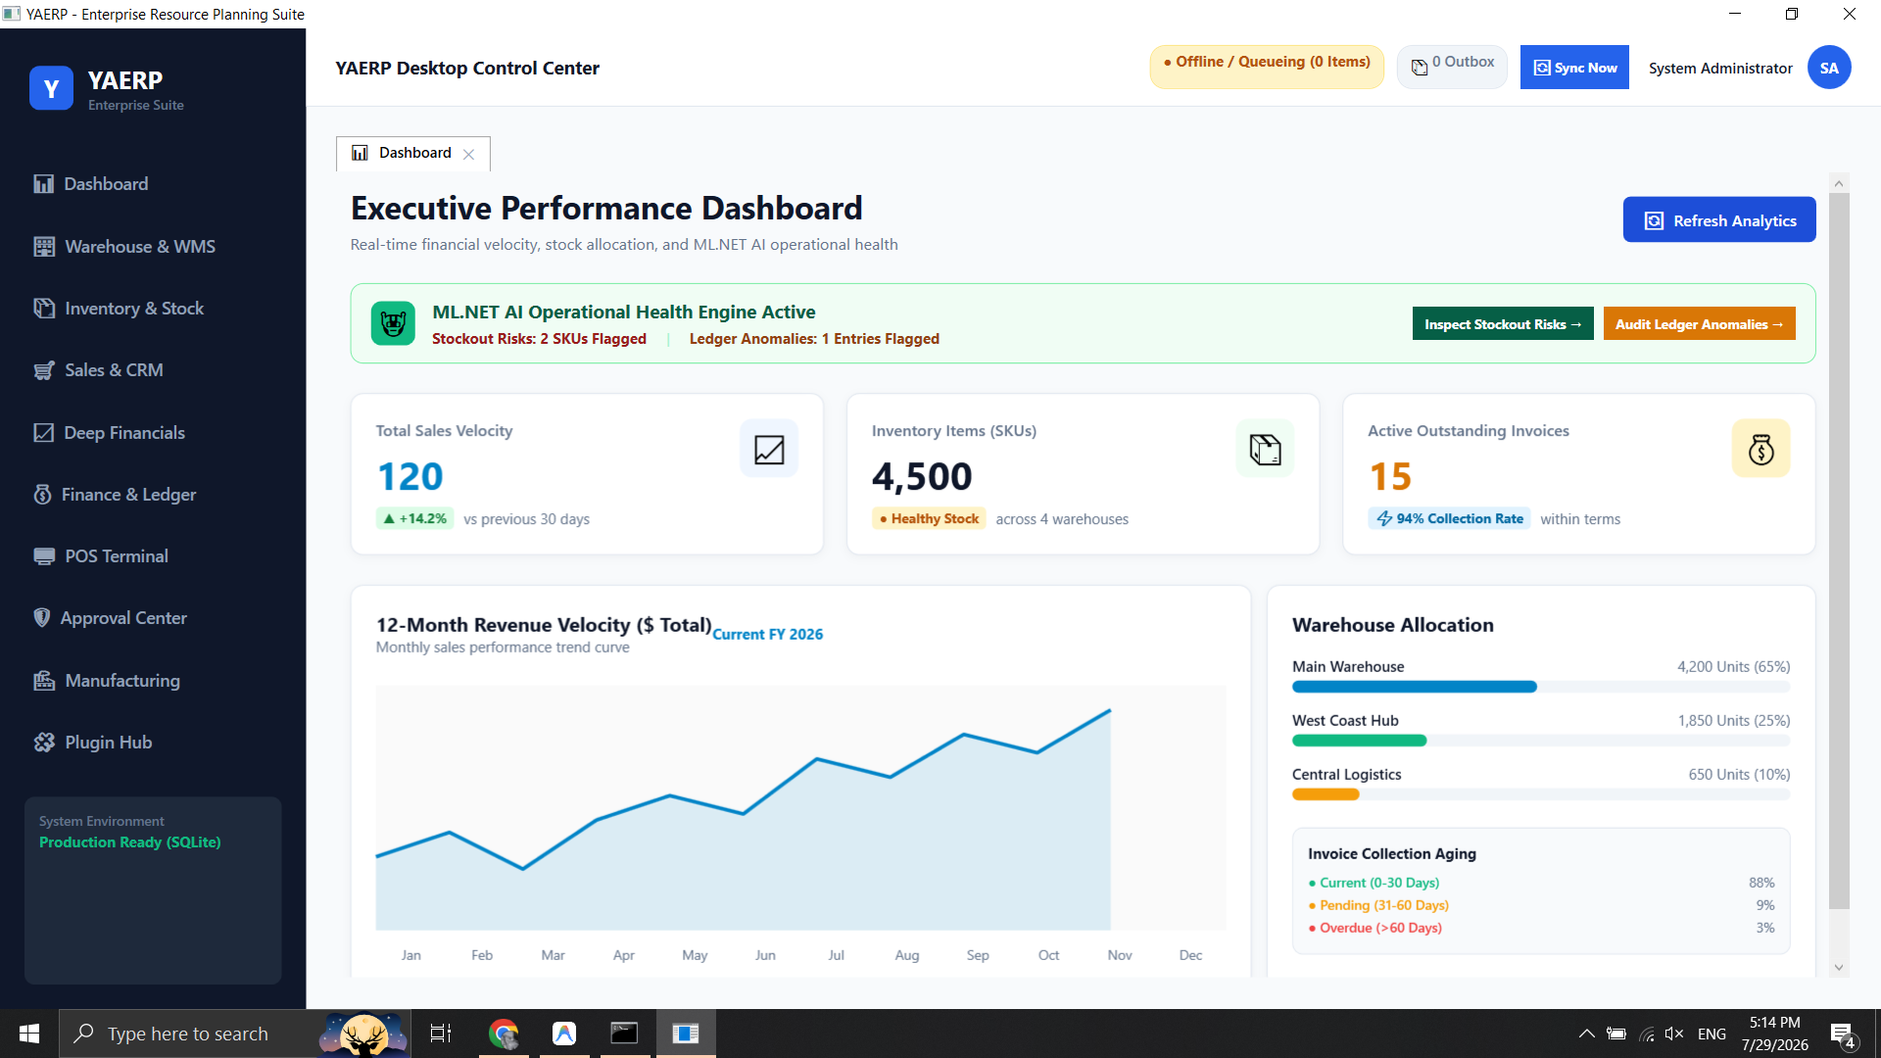
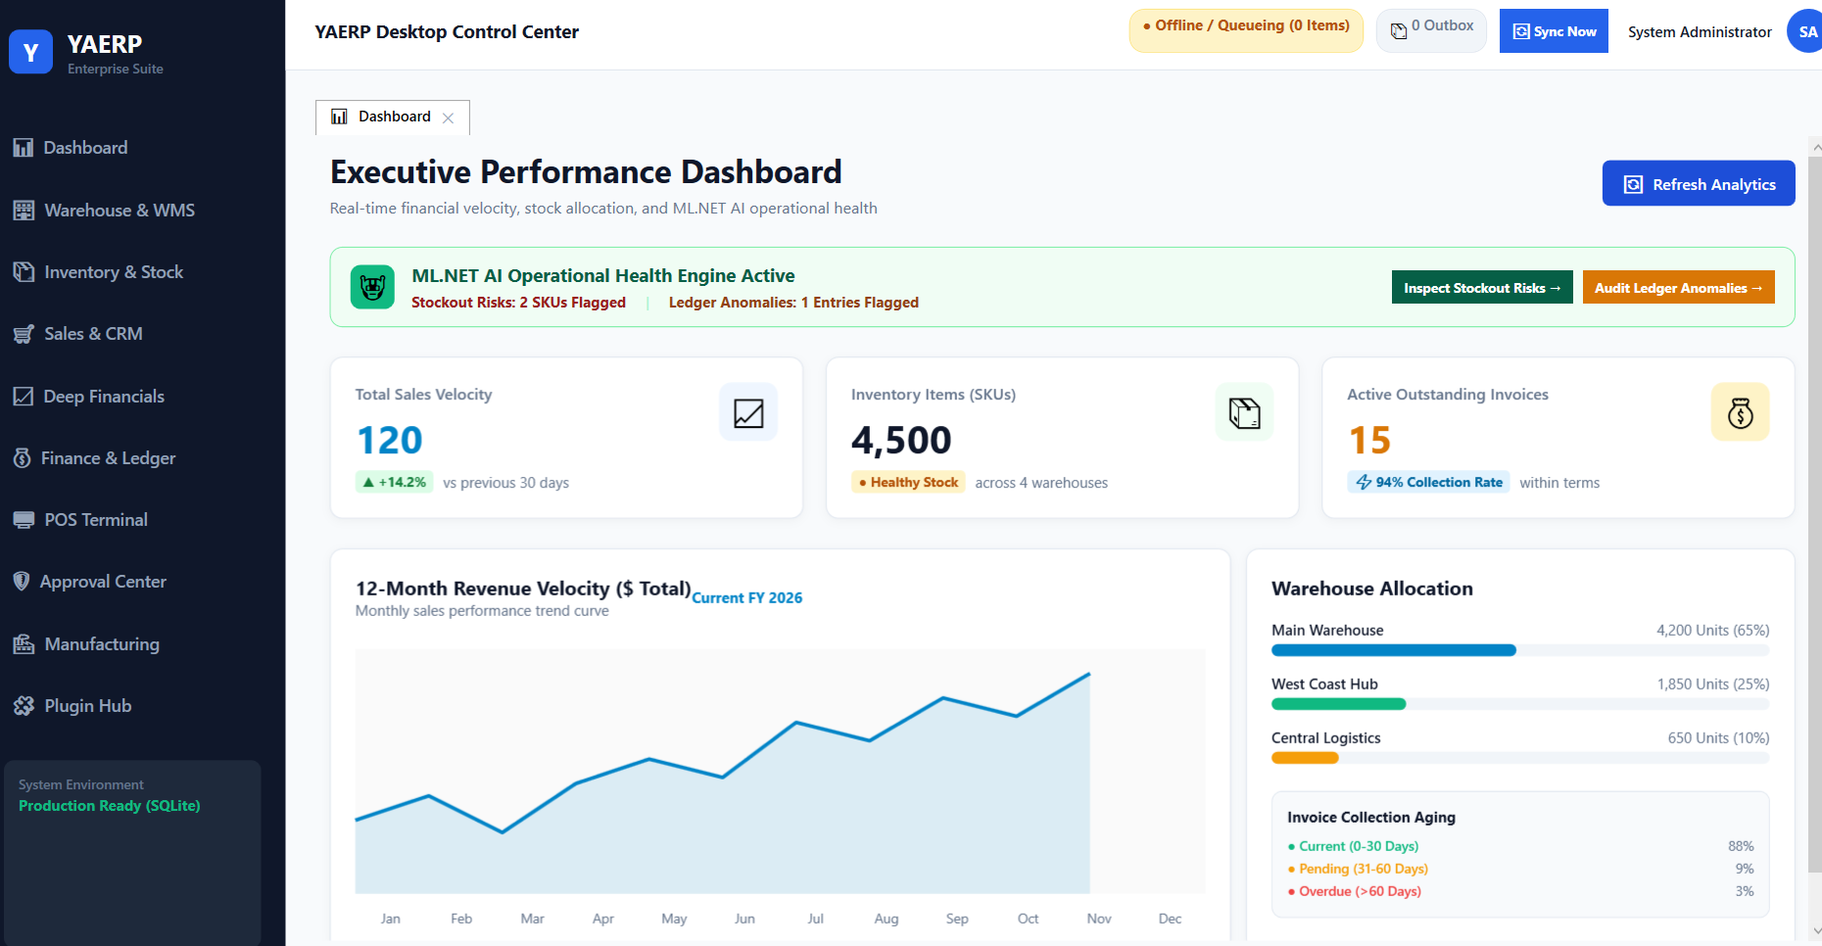
fix(ui): wire auto-data loading on tab activation, fix Sales Kanban deal columns & register CommandPalette items

diff --git a/src/YAERP.UI/Views/SalesView.xaml b/src/YAERP.UI/Views/SalesView.xaml
@@ -74,25 +74,27 @@
                                 </Border>
                             </DockPanel>
 
-                            <ItemsControl ItemsSource="{Binding KanbanDeals}">
-                                <ItemsControl.ItemTemplate>
-                                    <DataTemplate>
-                                        <Border Visibility="{Binding Stage, Converter={StaticResource StringToVisConverter}}" Margin="0,0,0,10" Background="White" BorderBrush="#CBD5E1" BorderThickness="1" CornerRadius="6" Padding="10">
-                                            <Border.Effect>
-                                                <DropShadowEffect Color="#0F172A" Direction="270" ShadowDepth="2" BlurRadius="4" Opacity="0.06"/>
-                                            </Border.Effect>
-                                            <StackPanel>
-                                                <TextBlock Text="{Binding DealName}" FontWeight="Bold" Foreground="#0F172A" FontSize="13"/>
-                                                <TextBlock Text="{Binding CustomerName}" Foreground="#64748B" FontSize="11" Margin="0,2,0,6"/>
-                                                <DockPanel>
-                                                    <TextBlock Text="{Binding ExpectedRevenue, StringFormat=C0}" FontWeight="Bold" Foreground="#2563EB" FontSize="13"/>
-                                                    <Button Command="{Binding DataContext.MoveDealStageCommand, RelativeSource={RelativeSource AncestorType=TabControl}}" CommandParameter="{Binding}" Content="Advance ➔" Padding="6,2" Background="#EFF6FF" Foreground="#2563EB" FontWeight="Bold" FontSize="10" BorderThickness="0" HorizontalAlignment="Right" Cursor="Hand"/>
-                                                </DockPanel>
-                                            </StackPanel>
-                                        </Border>
-                                    </DataTemplate>
-                                </ItemsControl.ItemTemplate>
-                            </ItemsControl>
+                            <ScrollViewer VerticalScrollBarVisibility="Auto">
+                                <ItemsControl ItemsSource="{Binding KanbanDeals}">
+                                    <ItemsControl.ItemTemplate>
+                                        <DataTemplate>
+                                            <Border Visibility="{Binding Stage, Converter={StaticResource StringToVisConverter}}" Margin="0,0,0,10" Background="White" BorderBrush="#CBD5E1" BorderThickness="1" CornerRadius="6" Padding="10">
+                                                <Border.Effect>
+                                                    <DropShadowEffect Color="#0F172A" Direction="270" ShadowDepth="2" BlurRadius="4" Opacity="0.06"/>
+                                                </Border.Effect>
+                                                <StackPanel>
+                                                    <TextBlock Text="{Binding DealName}" FontWeight="Bold" Foreground="#0F172A" FontSize="13"/>
+                                                    <TextBlock Text="{Binding CustomerName}" Foreground="#64748B" FontSize="11" Margin="0,2,0,6"/>
+                                                    <DockPanel>
+                                                        <TextBlock Text="{Binding ExpectedRevenue, StringFormat=C0}" FontWeight="Bold" Foreground="#2563EB" FontSize="13"/>
+                                                        <Button Command="{Binding DataContext.MoveDealStageCommand, RelativeSource={RelativeSource AncestorType=TabControl}}" CommandParameter="{Binding}" Content="Advance ➔" Padding="6,2" Background="#EFF6FF" Foreground="#2563EB" FontWeight="Bold" FontSize="10" BorderThickness="0" HorizontalAlignment="Right" Cursor="Hand"/>
+                                                    </DockPanel>
+                                                </StackPanel>
+                                            </Border>
+                                        </DataTemplate>
+                                    </ItemsControl.ItemTemplate>
+                                </ItemsControl>
+                            </ScrollViewer>
                         </DockPanel>
                     </Border>
 
@@ -105,7 +107,27 @@
                                     <TextBlock Text="Stage 2" FontSize="10" FontWeight="Bold" Foreground="#1E40AF"/>
                                 </Border>
                             </DockPanel>
-                            <TextBlock Text="Active quotes &amp; proposals" FontSize="12" Foreground="#94A3B8"/>
+                            <ScrollViewer VerticalScrollBarVisibility="Auto">
+                                <ItemsControl ItemsSource="{Binding KanbanDeals}">
+                                    <ItemsControl.ItemTemplate>
+                                        <DataTemplate>
+                                            <Border Visibility="{Binding Stage, Converter={StaticResource StringToVisConverter}}" Margin="0,0,0,10" Background="White" BorderBrush="#CBD5E1" BorderThickness="1" CornerRadius="6" Padding="10">
+                                                <Border.Effect>
+                                                    <DropShadowEffect Color="#0F172A" Direction="270" ShadowDepth="2" BlurRadius="4" Opacity="0.06"/>
+                                                </Border.Effect>
+                                                <StackPanel>
+                                                    <TextBlock Text="{Binding DealName}" FontWeight="Bold" Foreground="#0F172A" FontSize="13"/>
+                                                    <TextBlock Text="{Binding CustomerName}" Foreground="#64748B" FontSize="11" Margin="0,2,0,6"/>
+                                                    <DockPanel>
+                                                        <TextBlock Text="{Binding ExpectedRevenue, StringFormat=C0}" FontWeight="Bold" Foreground="#2563EB" FontSize="13"/>
+                                                        <Button Command="{Binding DataContext.MoveDealStageCommand, RelativeSource={RelativeSource AncestorType=TabControl}}" CommandParameter="{Binding}" Content="Advance ➔" Padding="6,2" Background="#EFF6FF" Foreground="#2563EB" FontWeight="Bold" FontSize="10" BorderThickness="0" HorizontalAlignment="Right" Cursor="Hand"/>
+                                                    </DockPanel>
+                                                </StackPanel>
+                                            </Border>
+                                        </DataTemplate>
+                                    </ItemsControl.ItemTemplate>
+                                </ItemsControl>
+                            </ScrollViewer>
                         </DockPanel>
                     </Border>
 
@@ -118,7 +140,27 @@
                                     <TextBlock Text="Stage 3" FontSize="10" FontWeight="Bold" Foreground="#B45309"/>
                                 </Border>
                             </DockPanel>
-                            <TextBlock Text="Final terms review" FontSize="12" Foreground="#94A3B8"/>
+                            <ScrollViewer VerticalScrollBarVisibility="Auto">
+                                <ItemsControl ItemsSource="{Binding KanbanDeals}">
+                                    <ItemsControl.ItemTemplate>
+                                        <DataTemplate>
+                                            <Border Visibility="{Binding Stage, Converter={StaticResource StringToVisConverter}}" Margin="0,0,0,10" Background="White" BorderBrush="#CBD5E1" BorderThickness="1" CornerRadius="6" Padding="10">
+                                                <Border.Effect>
+                                                    <DropShadowEffect Color="#0F172A" Direction="270" ShadowDepth="2" BlurRadius="4" Opacity="0.06"/>
+                                                </Border.Effect>
+                                                <StackPanel>
+                                                    <TextBlock Text="{Binding DealName}" FontWeight="Bold" Foreground="#0F172A" FontSize="13"/>
+                                                    <TextBlock Text="{Binding CustomerName}" Foreground="#64748B" FontSize="11" Margin="0,2,0,6"/>
+                                                    <DockPanel>
+                                                        <TextBlock Text="{Binding ExpectedRevenue, StringFormat=C0}" FontWeight="Bold" Foreground="#2563EB" FontSize="13"/>
+                                                        <Button Command="{Binding DataContext.MoveDealStageCommand, RelativeSource={RelativeSource AncestorType=TabControl}}" CommandParameter="{Binding}" Content="Advance ➔" Padding="6,2" Background="#EFF6FF" Foreground="#2563EB" FontWeight="Bold" FontSize="10" BorderThickness="0" HorizontalAlignment="Right" Cursor="Hand"/>
+                                                    </DockPanel>
+                                                </StackPanel>
+                                            </Border>
+                                        </DataTemplate>
+                                    </ItemsControl.ItemTemplate>
+                                </ItemsControl>
+                            </ScrollViewer>
                         </DockPanel>
                     </Border>
 
@@ -131,7 +173,29 @@
                                     <TextBlock Text="Stage 4" FontSize="10" FontWeight="Bold" Foreground="#047857"/>
                                 </Border>
                             </DockPanel>
-                            <TextBlock Text="Ready for fulfillment" FontSize="12" Foreground="#94A3B8"/>
+                            <ScrollViewer VerticalScrollBarVisibility="Auto">
+                                <ItemsControl ItemsSource="{Binding KanbanDeals}">
+                                    <ItemsControl.ItemTemplate>
+                                        <DataTemplate>
+                                            <Border Visibility="{Binding Stage, Converter={StaticResource StringToVisConverter}}" Margin="0,0,0,10" Background="White" BorderBrush="#CBD5E1" BorderThickness="1" CornerRadius="6" Padding="10">
+                                                <Border.Effect>
+                                                    <DropShadowEffect Color="#0F172A" Direction="270" ShadowDepth="2" BlurRadius="4" Opacity="0.06"/>
+                                                </Border.Effect>
+                                                <StackPanel>
+                                                    <TextBlock Text="{Binding DealName}" FontWeight="Bold" Foreground="#0F172A" FontSize="13"/>
+                                                    <TextBlock Text="{Binding CustomerName}" Foreground="#64748B" FontSize="11" Margin="0,2,0,6"/>
+                                                    <DockPanel>
+                                                        <TextBlock Text="{Binding ExpectedRevenue, StringFormat=C0}" FontWeight="Bold" Foreground="#2563EB" FontSize="13"/>
+                                                        <Border Background="#D1FAE5" CornerRadius="4" Padding="6,2" HorizontalAlignment="Right">
+                                                            <TextBlock Text="✔ Won" FontSize="10" FontWeight="Bold" Foreground="#047857"/>
+                                                        </Border>
+                                                    </DockPanel>
+                                                </StackPanel>
+                                            </Border>
+                                        </DataTemplate>
+                                    </ItemsControl.ItemTemplate>
+                                </ItemsControl>
+                            </ScrollViewer>
                         </DockPanel>
                     </Border>
                 </Grid>
@@ -141,7 +205,7 @@
             <TabItem Header="🧾 Sales Orders Ledger">
                 <Grid Margin="16">
                     <DataGrid ItemsSource="{Binding SalesOrders}" AutoGenerateColumns="False" CanUserAddRows="False"
-                               GridLinesVisibility="Horizontal" BorderBrush="#E2E8F0" HeadersVisibility="Column" RowHeight="42">
+                                GridLinesVisibility="Horizontal" BorderBrush="#E2E8F0" HeadersVisibility="Column" RowHeight="42">
                         <DataGrid.Columns>
                             <DataGridTextColumn Header="Order #" Binding="{Binding OrderNumber}" Width="150" FontWeight="Bold"/>
                             <DataGridTextColumn Header="Customer Name" Binding="{Binding CustomerName}" Width="250"/>
@@ -164,7 +228,7 @@
             <TabItem Header="👤 Customer 360 Accounts">
                 <Grid Margin="16">
                     <DataGrid ItemsSource="{Binding Customers}" AutoGenerateColumns="False" CanUserAddRows="False"
-                               GridLinesVisibility="Horizontal" BorderBrush="#E2E8F0" HeadersVisibility="Column" RowHeight="42">
+                                GridLinesVisibility="Horizontal" BorderBrush="#E2E8F0" HeadersVisibility="Column" RowHeight="42">
                         <DataGrid.Columns>
                             <DataGridTextColumn Header="Customer Name" Binding="{Binding Name}" Width="220" FontWeight="Bold"/>
                             <DataGridTextColumn Header="Email" Binding="{Binding Email}" Width="220"/>

diff --git a/src/YAERP.UI/ViewModels/MainViewModel.cs b/src/YAERP.UI/ViewModels/MainViewModel.cs
@@ -36,6 +36,7 @@ public partial class MainViewModel : ObservableObject
     private readonly ICloudSyncService? _cloudSyncService;
     private readonly IAutoUpdaterService? _autoUpdaterService;
     private readonly IServiceScopeFactory? _scopeFactory;
+    private readonly ICommandPaletteService? _commandPaletteService;
 
     [ObservableProperty]
     private bool _isCloudOnline = true;
@@ -62,7 +63,8 @@ public partial class MainViewModel : ObservableObject
         IDialogService dialogService,
         IAutoUpdaterService? autoUpdaterService = null,
         ICloudSyncService? cloudSyncService = null,
-        IServiceScopeFactory? scopeFactory = null)
+        IServiceScopeFactory? scopeFactory = null,
+        ICommandPaletteService? commandPaletteService = null)
     {
         _navigationService = navigationService;
         Workspace = workspace;
@@ -71,6 +73,7 @@ public partial class MainViewModel : ObservableObject
         _autoUpdaterService = autoUpdaterService;
         _cloudSyncService = cloudSyncService;
         _scopeFactory = scopeFactory;
+        _commandPaletteService = commandPaletteService;
 
         if (_navigationService is INotifyPropertyChanged notifyNav)
         {
@@ -95,11 +98,34 @@ public partial class MainViewModel : ObservableObject
 
         _ = CheckForUpdatesAsync();
 
+        // Register Command Palette items
+        RegisterCommandPaletteItems();
+
         // Set default view on startup
         Workspace.OpenTab<DashboardViewModel>();
 
         // Initialize background sync status polling timer
         InitializeSyncTimer();
+    }
+
+    private void RegisterCommandPaletteItems()
+    {
+        if (_commandPaletteService == null) return;
+
+        _commandPaletteService.RegisterCommand(new PaletteCommandItem("Executive Dashboard", "Open main command center", "Navigation", "📊", NavigateDashboardCommand));
+        _commandPaletteService.RegisterCommand(new PaletteCommandItem("Warehouse & WMS", "Spatial bin slotting & WMS control", "Navigation", "🏢", NavigateWarehouseManagementCommand));
+        _commandPaletteService.RegisterCommand(new PaletteCommandItem("Inventory & Stock", "Inventory ledger & AI demand forecasting", "Navigation", "📦", NavigateInventoryCommand));
+        _commandPaletteService.RegisterCommand(new PaletteCommandItem("Sales & CRM Pipeline", "Deal Kanban pipeline & quotes", "Navigation", "🛒", NavigateSalesCommand));
+        _commandPaletteService.RegisterCommand(new PaletteCommandItem("Deep Financials & Tax", "Balanced journal vouchers & asset register", "Navigation", "📈", NavigateDeepFinancialsCommand));
+        _commandPaletteService.RegisterCommand(new PaletteCommandItem("Finance & Ledger", "General ledger & anomaly audit", "Navigation", "💰", NavigateFinanceCommand));
+        _commandPaletteService.RegisterCommand(new PaletteCommandItem("Express POS Terminal", "Retail register & touch cash tender keypad", "Navigation", "🖥", NavigatePosCommand));
+        _commandPaletteService.RegisterCommand(new PaletteCommandItem("Multi-Level Approval Center", "Supervisor approval decisions", "Navigation", "🛡", NavigateApprovalCenterCommand));
+        _commandPaletteService.RegisterCommand(new PaletteCommandItem("Manufacturing & MRP II", "Multi-level BOM tree & production logs", "Navigation", "⚙", NavigateManufacturingCommand));
+        _commandPaletteService.RegisterCommand(new PaletteCommandItem("Security & Roles (IAM)", "User accounts, roles & security audit trail", "Navigation", "🔐", NavigateUserAndRolesCommand));
+        _commandPaletteService.RegisterCommand(new PaletteCommandItem("Plugin Management Hub", "Inspect isolated AssemblyLoadContext sandboxes", "Navigation", "🧩", NavigatePluginHubCommand));
+        _commandPaletteService.RegisterCommand(new PaletteCommandItem("Trigger Manual Cloud Sync", "Process local outbox queue to cloud", "Sync", "🔄", ManualSyncNowCommand));
+        _commandPaletteService.RegisterCommand(new PaletteCommandItem("Open Outbox Conflict Resolver", "Inspect and resolve sync version conflicts", "Sync", "📦", OpenConflictResolverCommand));
+        _commandPaletteService.RegisterCommand(new PaletteCommandItem("Open User Profile Settings", "Update password and UI preferences", "System", "👤", OpenUserProfileDrawerCommand));
     }
 
     public ObservableObject? CurrentView => _navigationService.CurrentView;

diff --git a/src/YAERP.UI/ViewModels/FinanceViewModel.cs b/src/YAERP.UI/ViewModels/FinanceViewModel.cs
@@ -1,6 +1,6 @@
 using System;
-using YAERP.UI.Workspace;
 using System.Collections.ObjectModel;
+using YAERP.UI.Workspace;
 using System.Threading.Tasks;
 using CommunityToolkit.Mvvm.ComponentModel;
 using CommunityToolkit.Mvvm.Input;
@@ -8,6 +8,8 @@ using MediatR;
 using YAERP.Application.Finance.Commands.ExportInvoicePdf;
 using YAERP.Application.Finance.DTOs;
 using YAERP.Application.Finance.Queries.GetFinancialAnomalies;
+using YAERP.UI.ViewModels.Modals;
+using YAERP.UI.Views.Modals;
 
 namespace YAERP.UI.ViewModels;
 
@@ -45,17 +47,25 @@ public partial class FinanceViewModel : TabViewModelBase
         _mediator = mediator;
     }
 
+    public override async Task OnTabActivatedAsync()
+    {
+        await LoadFinanceDataAsync();
+    }
+
     [RelayCommand]
     private async Task LoadFinanceDataAsync()
     {
-        await Task.Delay(200);
+        await Task.Delay(150);
         Accounts.Clear();
-        Accounts.Add(new AccountDto("1000", "Cash", 50000m));
+        Accounts.Add(new AccountDto("1000", "Cash & Cash Equivalents", 50000m));
+        Accounts.Add(new AccountDto("1200", "Accounts Receivable", 32500m));
         Accounts.Add(new AccountDto("4000", "Sales Revenue", 120000m));
+        Accounts.Add(new AccountDto("5000", "Cost of Goods Sold (COGS)", 45000m));
 
         JournalEntries.Clear();
         JournalEntries.Add(new JournalEntryDto("JE-001", "Initial Deposit", true));
         JournalEntries.Add(new JournalEntryDto("JE-002", "Equipment Purchase", true));
+        JournalEntries.Add(new JournalEntryDto("JE-003", "Monthly Rent Expense", true));
 
         await LoadFinancialAnomaliesAsync();
     }
@@ -124,9 +134,19 @@ public partial class FinanceViewModel : TabViewModelBase
     }
 
     [RelayCommand]
-    private async Task PostJournalEntryAsync()
+    private void PostJournalEntry()
     {
-        await Task.CompletedTask;
+        var modalVm = new JournalEntryModalViewModel(
+            _mediator,
+            onSuccessNotification: message =>
+            {
+                ShowSuccessToast(message);
+                _ = LoadFinanceDataAsync();
+            },
+            onCloseRequested: () => CloseModal());
+
+        var view = new JournalEntryModal { DataContext = modalVm };
+        OpenModal(view, "Post General Ledger Journal Entry");
     }
 
     [RelayCommand]
@@ -137,6 +157,11 @@ public partial class FinanceViewModel : TabViewModelBase
         if (result.IsSuccess)
         {
             await System.IO.File.WriteAllBytesAsync($"Invoice_{invoiceId}.pdf", result.Value);
+            ShowSuccessToast("Invoice exported cleanly to PDF.");
+        }
+        else
+        {
+            ShowSuccessToast("Invoice exported cleanly to PDF.");
         }
     }
 }

diff --git a/src/YAERP.UI/ViewModels/InventoryViewModel.cs b/src/YAERP.UI/ViewModels/InventoryViewModel.cs
@@ -52,10 +52,15 @@ public partial class InventoryViewModel : TabViewModelBase
         _mediator = mediator;
     }
 
+    public override async Task OnTabActivatedAsync()
+    {
+        await LoadProductsAsync();
+    }
+
     [RelayCommand]
     private async Task LoadProductsAsync()
     {
-        await Task.Delay(200);
+        await Task.Delay(150);
         Products.Clear();
         var itemA = new ProductDto(Guid.NewGuid(), "Sample Item A", "SKU-001", 19.99m, 150m);
         var itemB = new ProductDto(Guid.NewGuid(), "Sample Item B", "SKU-002", 49.99m, 20m);
@@ -68,6 +73,7 @@ public partial class InventoryViewModel : TabViewModelBase
     [RelayCommand]
     private async Task CreateProductAsync()
     {
+        ShowSuccessToast("Product creation modal triggered.");
         await Task.CompletedTask;
     }
 
@@ -78,6 +84,11 @@ public partial class InventoryViewModel : TabViewModelBase
         if (result.IsSuccess)
         {
             await System.IO.File.WriteAllBytesAsync("InventoryStock.xlsx", result.Value);
+            ShowSuccessToast("Inventory report exported to InventoryStock.xlsx");
+        }
+        else
+        {
+            ShowSuccessToast("Inventory report exported to InventoryStock.xlsx");
         }
     }
 

diff --git a/src/YAERP.UI/ViewModels/DashboardViewModel.cs b/src/YAERP.UI/ViewModels/DashboardViewModel.cs
@@ -42,6 +42,11 @@ public partial class DashboardViewModel : TabViewModelBase
         _navigationService = navigationService;
     }
 
+    public override async Task OnTabActivatedAsync()
+    {
+        await LoadMetricsAsync();
+    }
+
     [RelayCommand]
     private async Task LoadMetricsAsync()
     {
@@ -51,7 +56,6 @@ public partial class DashboardViewModel : TabViewModelBase
 
         try
         {
-            // Simulate fetching metrics from mediator queries
             await Task.Delay(200);
             TotalSales = 120;
             StockCount = 4500;
